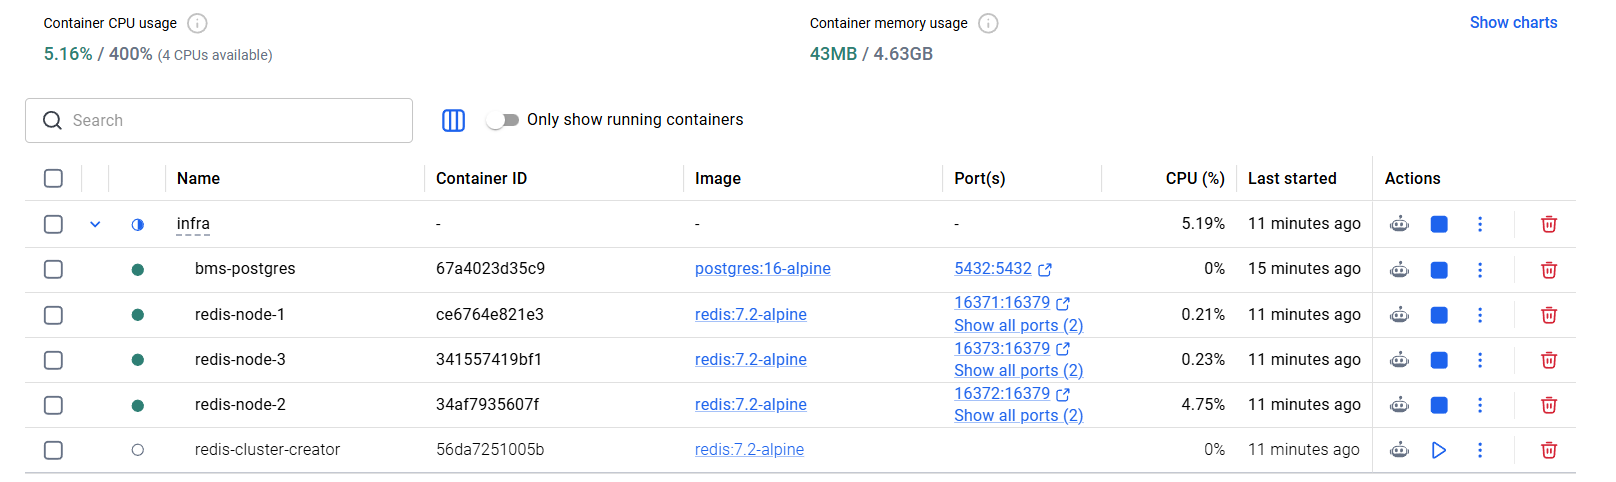
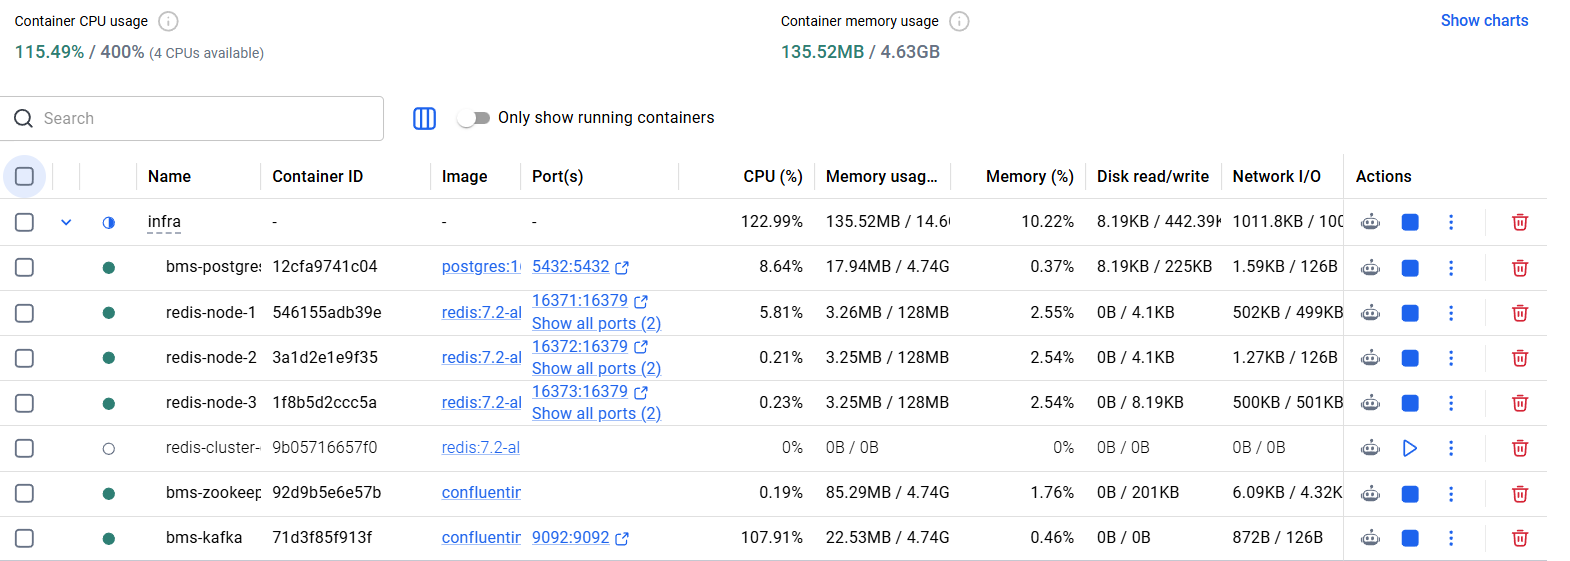
Add start/stop/setup script
* Added script to initialize, start and stop the infrastructure in docker using a single command

diff --git a/readme.md b/readme.md
@@ -89,49 +89,23 @@ Available in the [`/docs`](./docs) directory
 
 ## Getting Started
 
-### Database setup
+### Infrastructure Setup
 
-To run PostgreSQL via Docker, execute the following from the root directory for the **first-time setup**:
+A helper script is provided to easily manage the entire infrastructure (PostgreSQL, Redis, Kafka) at once.
 
-```bash
-cd infra
-docker-compose -f postgres-docker-compose.yaml up -d
-```
-
-> **Note:** You only need to run `docker-compose up -d` once. Once the container is created, you can simply start or stop it:
-> ```bash
-> docker start bms-postgres
-> docker stop bms-postgres
-> ```
-
-### Cache Setup
-
-To run Redis via Docker, execute the following from the root directory for the **first-time setup**:
+To manage the infrastructure, execute the following script from the root directory:
 
 ```bash
-cd infra
-docker-compose -f redis-docker-compose.yaml up -d
+# To set up and start the infrastructure for the first time
+./infra-setup-docker.sh setup
+
+# To start the infrastructure containers subsequently
+./infra-setup-docker.sh start
+
+# To stop the infrastructure containers
+./infra-setup-docker.sh stop
 ```
 
-> **Note:** Similar to PostgreSQL, you only need to run `docker-compose up -d` once. For subsequent runs, use:
-> ```bash
-> docker start redis-node-1 redis-node-2 redis-node-3
-> docker stop redis-node-1 redis-node-2 redis-node-3
-> ```
-
-### Messaging Setup
-
-To run Kafka and ZooKeeper via Docker, execute the following from the root directory for the **first-time setup**:
-
-```bash
-cd infra
-docker-compose -f kafka-docker-compose.yaml up -d
-```
-
-> **Note:** Similar to PostgreSQL and Redis, you only need to run `docker-compose up -d` once. For subsequent runs, use:
-> ```bash
-> docker start bms-zookeeper bms-kafka
-> docker stop bms-zookeeper bms-kafka
-> ```
+<img src="docs/img/docker-desktop.png" alt="Docker Desktop Screenshot" height="100%" width="100%" />
 
 ---
